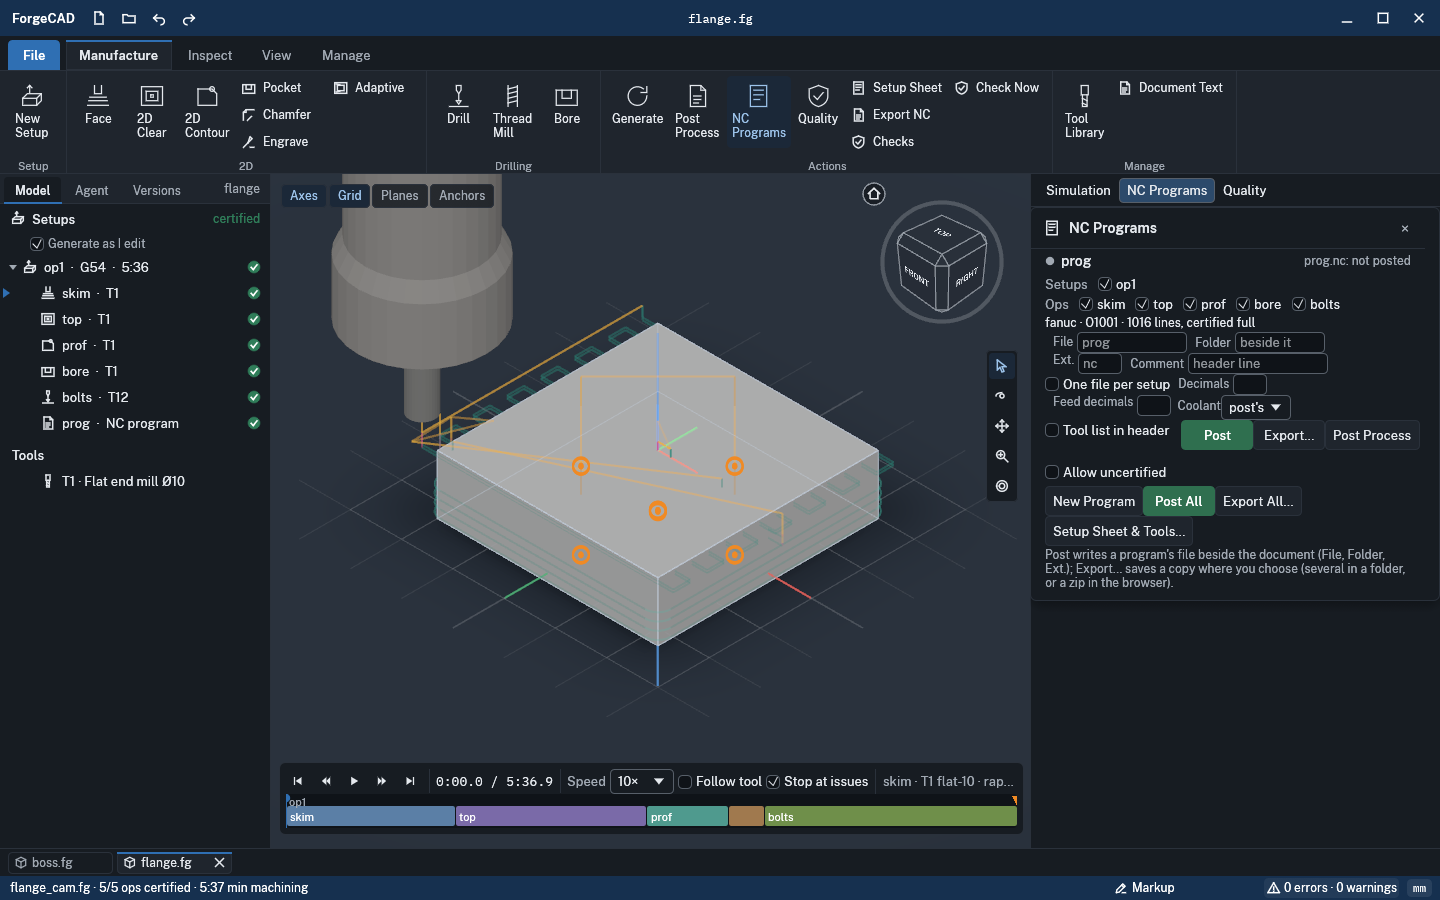
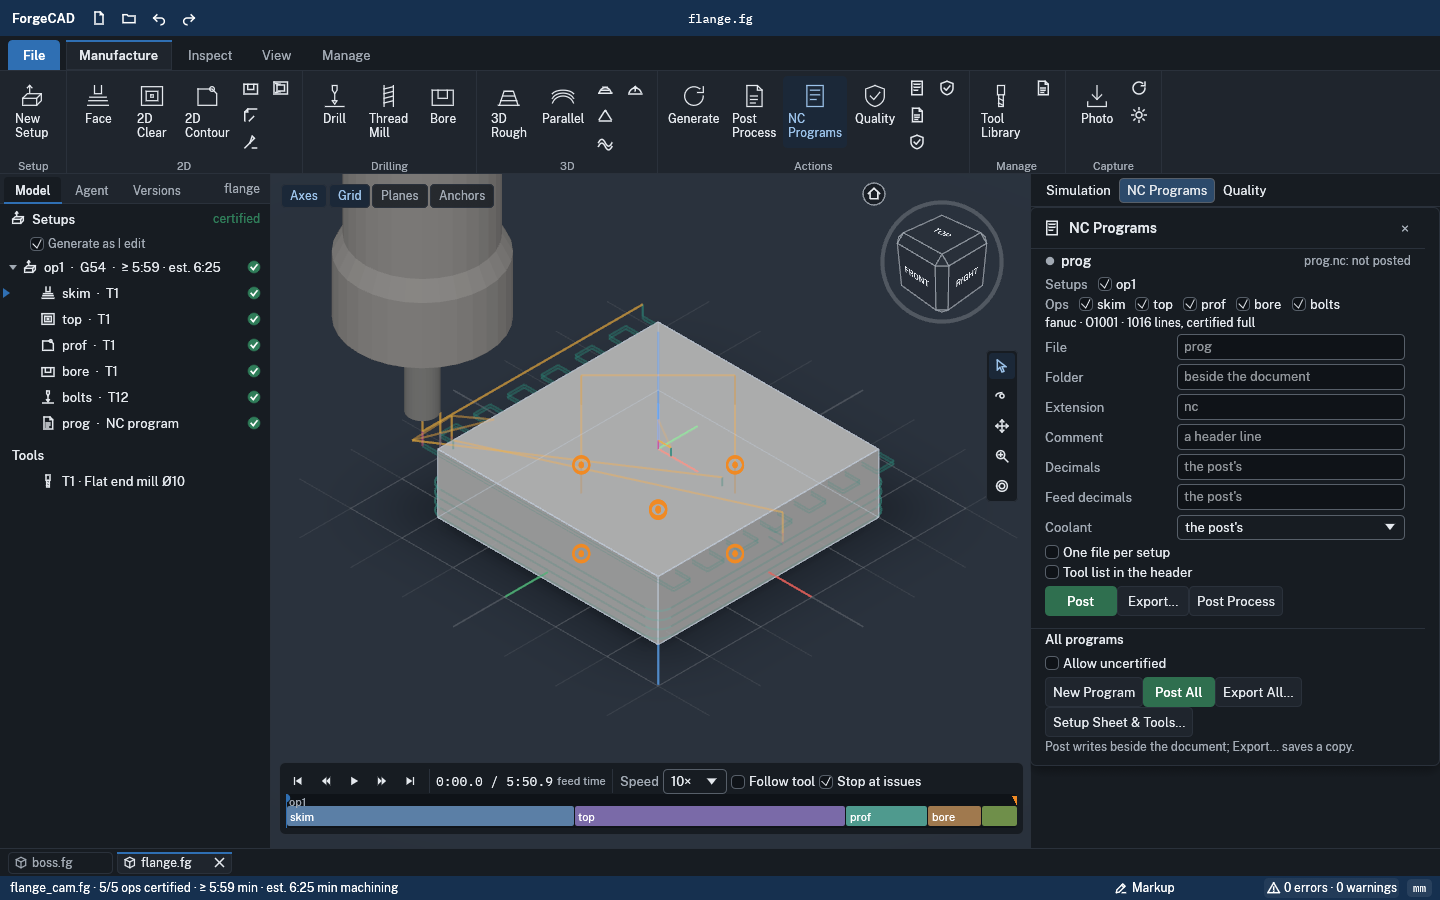
Manufacture: NC Programs as a sheet, Quality's words (UX-LEAD's P1s); merged with train 5 and cam/ui-3d-cert
NC Programs: one field a row in a label column (File, Folder, Extension, Comment, Decimals, Feed
decimals, Coolant), the checks a row each, the program's Post · Export… · Post Process together;
every program's actions under a rule (Allow uncertified, New Program · Post All · Export All…,
Setup Sheet & Tools…); the explainer one line, the rest on hover. Quality: the programs' time as
"≥ … · est. …" (from cam/ui-cycle), op names as the tree shows them, the footnote without the
crate's name.

Claude-Session: https://claude.ai/code/session_01WJtawySQLKzpnK7g6t2CVB

diff --git a/interface/forge-render/src/shell/cam/ui.rs b/interface/forge-render/src/shell/cam/ui.rs
@@ -3041,7 +3041,11 @@ fn programs_window(
                     t.warn,
                 );
             }
+            // every program: a footer of their own, under a rule
             ui.add_space(6.0);
+            let (rr, _) = ui.allocate_exact_size(vec2(width, 1.0), Sense::hover());
+            ui.painter().hline(rr.x_range(), rr.center().y, Stroke::new(1.0, t.line));
+            heading(ui, t, "All programs", width);
             ui.horizontal(|ui| {
                 ui.add_space(14.0);
                 let r = ui.checkbox(&mut allow, "Allow uncertified").on_hover_text("Post a program that is not certified in full: its header says what was not checked");
@@ -3083,12 +3087,12 @@ fn programs_window(
             if let Some(s) = &w.said {
                 note(ui, s, width, t.ink2);
             }
-            note(
-                ui,
-                "Post writes a program's file beside the document (File, Folder, Ext.); Export… saves a copy where you choose (several in a folder, or a zip in the browser).",
-                width,
-                t.ink2,
-            );
+            // one line; the rest on hover
+            ui.horizontal(|ui| {
+                ui.add_space(14.0);
+                ui.label(egui::RichText::new("Post writes beside the document; Export\u{2026} saves a copy.").font(sans(12.0)).color(t.ink2))
+                    .on_hover_text("Post writes a program's file beside the document (its File, Folder and Extension); Export\u{2026} saves a copy where you choose (several in a folder, or a zip in the browser).");
+            });
             ui.add_space(8.0);
         });
     w.prog_field = field;
@@ -3258,78 +3262,62 @@ fn program_row(
     }
     // its file: name, folder, extension, header
     let ext_default = forge_cam_lang::export::ext_of(&p.arg_str("post").unwrap_or_default()).to_string();
-    ui.horizontal_wrapped(|ui| {
-        ui.add_space(14.0);
-        prog_field(ui, t, "File", 110.0, p, "file", &p.name, field, edits, places);
-        prog_field(ui, t, "Folder", 90.0, p, "out", "beside it", field, edits, places);
-        // the column's width: two fields a line
-        if width < 520.0 {
-            ui.end_row();
-            ui.add_space(14.0);
-        }
-        prog_field(ui, t, "Ext.", 44.0, p, "ext", &ext_default, field, edits, places);
-        prog_field(ui, t, "Comment", 140.0, p, "comment", "header line", field, edits, places);
-    });
-    // posting: one file per setup, decimals, coolant (forge-post's options, certified as posted)
-    ui.horizontal_wrapped(|ui| {
-        ui.add_space(14.0);
-        let had = p.arg_str("split").as_deref() == Some("setup");
-        let mut on = had;
-        let r = ui.checkbox(&mut on, "One file per setup");
-        places.push((format!("cam:programs:{}:split", p.name), r.rect));
-        if on != had {
-            edits.push(if on {
-                super::doc::Edit::Set { id: p.name.clone(), arg: "split".into(), text: "\"setup\"".into() }
-            } else {
-                super::doc::Edit::Unset { id: p.name.clone(), arg: "split".into() }
-            });
-        }
-        prog_field(ui, t, "Decimals", 34.0, p, "decimals", "", field, edits, places);
-        if width < 520.0 {
-            ui.end_row();
-            ui.add_space(14.0);
-        }
-        prog_field(ui, t, "Feed decimals", 34.0, p, "feed_decimals", "", field, edits, places);
-        ui.add_space(6.0);
-        ui.label(egui::RichText::new("Coolant").font(sans(12.0)).color(t.ink2));
-        let now = p.arg_str("coolant").unwrap_or_default();
-        let mut pick = now.clone();
+    // its file and posting, one field a row (UX-LEAD's sheet pattern)
+    prog_field(ui, t, "File", width, p, "file", &p.name, field, edits, places);
+    prog_field(ui, t, "Folder", width, p, "out", "beside the document", field, edits, places);
+    prog_field(ui, t, "Extension", width, p, "ext", &ext_default, field, edits, places);
+    prog_field(ui, t, "Comment", width, p, "comment", "a header line", field, edits, places);
+    prog_field(ui, t, "Decimals", width, p, "decimals", "the post's", field, edits, places);
+    prog_field(ui, t, "Feed decimals", width, p, "feed_decimals", "the post's", field, edits, places);
+    let now = p.arg_str("coolant").unwrap_or_default();
+    let mut pick = now.clone();
+    row(ui, t, "Coolant", width, 30.0, |ui| {
         let r = egui::ComboBox::from_id_salt(format!("cam-programs-{}-coolant", p.name))
-            .width(70.0)
-            .selected_text(if pick.is_empty() { "post's" } else { pick.as_str() })
+            .width(ui.available_width() - 6.0)
+            .selected_text(if pick.is_empty() { "the post's" } else { pick.as_str() })
             .show_ui(ui, |ui| {
                 for c in ["", "flood", "mist", "through", "off"] {
-                    ui.selectable_value(&mut pick, c.to_string(), if c.is_empty() { "post's" } else { c });
+                    ui.selectable_value(&mut pick, c.to_string(), if c.is_empty() { "the post's" } else { c });
                 }
             });
         places.push((format!("cam:programs:{}:coolant", p.name), r.response.rect));
-        if pick != now {
-            edits.push(if pick.is_empty() {
-                super::doc::Edit::Unset { id: p.name.clone(), arg: "coolant".into() }
-            } else {
-                super::doc::Edit::Set { id: p.name.clone(), arg: "coolant".into(), text: format!("\"{pick}\"") }
-            });
-        }
     });
-    ui.horizontal_wrapped(|ui| {
-        ui.add_space(14.0);
-        let had = p.arg_str("tools").as_deref() == Some("list");
+    if pick != now {
+        edits.push(if pick.is_empty() {
+            super::doc::Edit::Unset { id: p.name.clone(), arg: "coolant".into() }
+        } else {
+            super::doc::Edit::Set { id: p.name.clone(), arg: "coolant".into(), text: format!("\"{pick}\"") }
+        });
+    }
+    // the checks, a row each
+    for (arg, words, on_text) in [("split", "One file per setup", "\"setup\""), ("tools", "Tool list in the header", "\"list\"")] {
+        let had = match arg {
+            "split" => p.arg_str("split").as_deref() == Some("setup"),
+            _ => p.arg_str("tools").as_deref() == Some("list"),
+        };
         let mut on = had;
-        let r = ui.checkbox(&mut on, "Tool list in header");
-        places.push((format!("cam:programs:{}:tools", p.name), r.rect));
+        ui.horizontal(|ui| {
+            ui.add_space(14.0);
+            let r = ui.checkbox(&mut on, words);
+            places.push((format!("cam:programs:{}:{arg}", p.name), r.rect));
+        });
         if on != had {
             edits.push(if on {
-                super::doc::Edit::Set { id: p.name.clone(), arg: "tools".into(), text: "\"list\"".into() }
+                super::doc::Edit::Set { id: p.name.clone(), arg: arg.into(), text: on_text.into() }
             } else {
-                super::doc::Edit::Unset { id: p.name.clone(), arg: "tools".into() }
+                super::doc::Edit::Unset { id: p.name.clone(), arg: arg.into() }
             });
         }
-        ui.add_space(12.0);
+    }
+    // the program's own actions, together
+    ui.add_space(4.0);
+    ui.horizontal_wrapped(|ui| {
+        ui.add_space(14.0);
         let ok = res.as_ref().is_some_and(|r| r.text.is_some());
         if ok && button(ui, t, "Post", true, format!("cam:programs:{}:post", p.name), places) {
             cmds.push(Cmd::PostNc(Some(p.name.clone())));
         }
-        if ok && button(ui, t, "Export…", false, format!("cam:programs:{}:export", p.name), places) {
+        if ok && button(ui, t, "Export\u{2026}", false, format!("cam:programs:{}:export", p.name), places) {
             cmds.push(Cmd::ExportNc(Some(p.name.clone())));
         }
         if button(ui, t, "Post Process", false, format!("cam:programs:{}:open", p.name), places) {
@@ -3349,7 +3337,7 @@ fn prog_field(
     ui: &mut Ui,
     t: &Theme,
     label: &str,
-    wide: f32,
+    width: f32,
     p: &super::doc::Stmt,
     arg: &str,
     hint: &str,
@@ -3363,16 +3351,16 @@ fn prog_field(
         Some((k, b)) if *k == key => b.clone(),
         _ => now.clone(),
     };
-    ui.add_space(8.0);
-    ui.label(egui::RichText::new(label).font(sans(12.0)).color(t.ink2));
-    ui.add_space(4.0);
-    let r = ui.add(
-        egui::TextEdit::singleline(&mut v)
-            .font(sans(12.0))
-            .hint_text(hint)
-            .desired_width(wide)
-            .margin(vec2(5.0, 3.0)),
-    );
+    // a sheet row: the label in its column, the field filling the rest
+    let r = row(ui, t, label, width, 30.0, |ui| {
+        ui.add(
+            egui::TextEdit::singleline(&mut v)
+                .font(sans(13.0))
+                .hint_text(hint)
+                .desired_width(ui.available_width() - 6.0)
+                .margin(vec2(7.0, 5.0)),
+        )
+    });
     places.push((key.clone(), r.rect));
     if r.changed() {
         *field = Some((key.clone(), v.clone()));
@@ -3524,8 +3512,10 @@ fn quality_window(
                         q.p_avail > 0.0 && q.p_max > q.p_avail,
                     ];
                     let mut x = r.left() + 14.0;
-                    for ((c, (_, wd)), wn) in cells.iter().zip(cols).zip(warn) {
-                        ui.painter().text(pos2(x, r.center().y), Align2::LEFT_CENTER, c, mono(11.0), if wn { t.warn } else { t.ink });
+                    for (ci, ((c, (_, wd)), wn)) in cells.iter().zip(cols).zip(warn).enumerate() {
+                        // the op's name as the tree shows it; the numbers in mono
+                        let font = if ci == 0 { sans(12.0) } else { mono(11.0) };
+                        ui.painter().text(pos2(x, r.center().y), Align2::LEFT_CENTER, c, font, if wn { t.warn } else { t.ink });
                         x += wd;
                     }
                 }
@@ -3549,7 +3539,7 @@ fn quality_window(
             note(
                 ui,
                 &format!(
-                    "Measured on a height map of {} mm cells (forge-cam-quality): rubbing is a chip under half the feed per tooth, overloaded over 1.25 times it. Amber: worth a look.",
+                    "Measured on a {} mm height map: rubbing is a chip under half the feed per tooth, overloaded over 1.25 times it. Amber: worth a look.",
                     num(job.cell)
                 ),
                 width,
